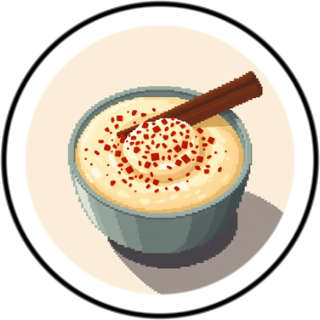
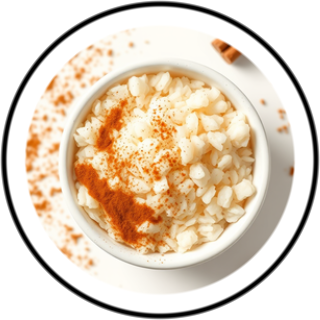
test update for lens

diff --git a/Assets/2Dchangecontroller.js b/Assets/2Dchangecontroller.js
@@ -14,6 +14,7 @@ script.updateImage = function(opacityValue, zValue) {
     if (opacityValue != -1) {
         if (script.image && script.image.mainPass && script.image.mainPass.baseColor) {
             var color = script.image.mainPass.baseColor;
+            print("BEFORE Image updated → Opc:" + color.a);
             // Create new vec4 with original RGB and new alpha
             script.image.mainPass.baseColor = new vec4(color.x, color.y, color.z, opacityValue);
             print("Image updated → opacity:" + opacityValue);
@@ -26,7 +27,7 @@ script.updateImage = function(opacityValue, zValue) {
             var t = script.image.getSceneObject().getTransform();
             var pos = t.getLocalPosition();
             print("BEFORE Image updated → Z:" + t.getLocalPosition());
-            pos.z = 0 + zValue * 10; // for example, 0 to 10, or whatever range you like
+            pos.z = -1.7 + zValue * 10;
             t.setLocalPosition(pos);
             print("Image updated → Z:" + t.getLocalPosition());
         }

diff --git a/Cache/TypeScript/Src/Assets/2Dchangecontroller.js b/Cache/TypeScript/Src/Assets/2Dchangecontroller.js
@@ -14,6 +14,7 @@ script.updateImage = function(opacityValue, zValue) {
     if (opacityValue != -1) {
         if (script.image && script.image.mainPass && script.image.mainPass.baseColor) {
             var color = script.image.mainPass.baseColor;
+            print("BEFORE Image updated → Opc:" + color.a);
             // Create new vec4 with original RGB and new alpha
             script.image.mainPass.baseColor = new vec4(color.x, color.y, color.z, opacityValue);
             print("Image updated → opacity:" + opacityValue);
@@ -26,7 +27,7 @@ script.updateImage = function(opacityValue, zValue) {
             var t = script.image.getSceneObject().getTransform();
             var pos = t.getLocalPosition();
             print("BEFORE Image updated → Z:" + t.getLocalPosition());
-            pos.z = 0 + zValue * 10; // for example, 0 to 10, or whatever range you like
+            pos.z = -1.7 + zValue * 10;
             t.setLocalPosition(pos);
             print("Image updated → Z:" + t.getLocalPosition());
         }

diff --git a/Assets/onButtonChange.js b/Assets/onButtonChange.js
@@ -37,8 +37,8 @@ function onbuttonValueChanged() {
     else {
        if (script.imageController && script.imageController.updateTexture) {
             script.imageController.updateTexture(script.textureSelection);
-            script.imageController.updateImage(0.7, 0.02);
-            script.oSliderController.updateValue(0.3);
+            script.imageController.updateImage(0.3, 0.02);
+            script.oSliderController.updateValue(-0.4);
             script.zSliderController.updateValue(-0.96);
         } 
     }

diff --git a/Cache/TypeScript/Src/Assets/onButtonChange.js b/Cache/TypeScript/Src/Assets/onButtonChange.js
@@ -37,8 +37,8 @@ function onbuttonValueChanged() {
     else {
        if (script.imageController && script.imageController.updateTexture) {
             script.imageController.updateTexture(script.textureSelection);
-            script.imageController.updateImage(0.7, 0.02);
-            script.oSliderController.updateValue(0.3);
+            script.imageController.updateImage(0.3, 0.02);
+            script.oSliderController.updateValue(-0.4);
             script.zSliderController.updateValue(-0.96);
         } 
     }

diff --git a/Assets/onOslilderchange.js b/Assets/onOslilderchange.js
@@ -6,7 +6,7 @@ script.updateValue = function(opacityValue) {
         print("⚠ Slider script not assigned!");
         return;
     }
-    print("workingO");
+    print("workingO" + opacityValue);
     script.sliderScript._setSliderValue(opacityValue);
 };
 

diff --git a/Cache/TypeScript/Src/Assets/onOslilderchange.js b/Cache/TypeScript/Src/Assets/onOslilderchange.js
@@ -6,7 +6,7 @@ script.updateValue = function(opacityValue) {
         print("⚠ Slider script not assigned!");
         return;
     }
-    print("workingO");
+    print("workingO" + opacityValue);
     script.sliderScript._setSliderValue(opacityValue);
 };
 

diff --git a/Assets/onZsliderchange.js b/Assets/onZsliderchange.js
@@ -6,7 +6,7 @@ script.updateValue = function(zValue) {
         print("⚠ Slider script not assigned!");
         return;
     }
-    print("working");
+    print("workingZ" + zValue);
     script.sliderScript._setSliderValue(zValue);
 };
 

diff --git a/Cache/TypeScript/Src/Assets/onZsliderchange.js b/Cache/TypeScript/Src/Assets/onZsliderchange.js
@@ -6,7 +6,7 @@ script.updateValue = function(zValue) {
         print("⚠ Slider script not assigned!");
         return;
     }
-    print("working");
+    print("workingZ" + zValue);
     script.sliderScript._setSliderValue(zValue);
 };
 
